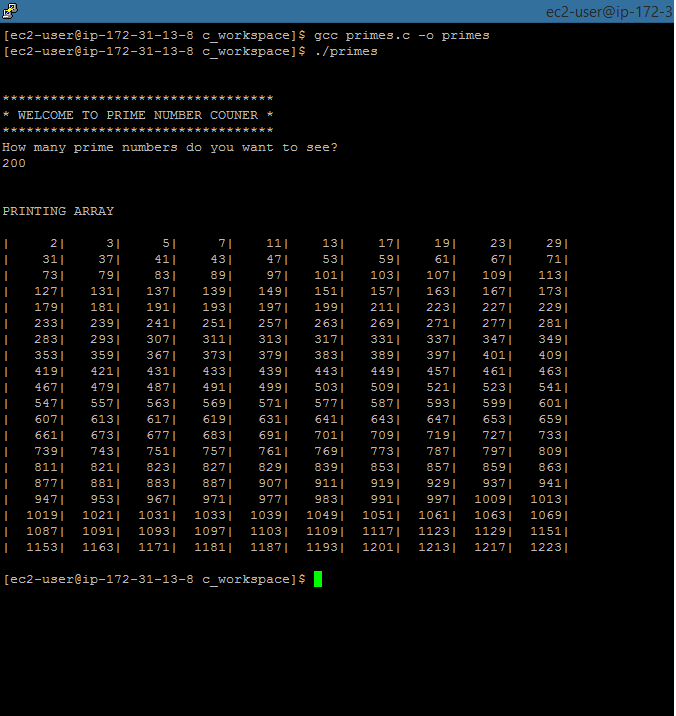
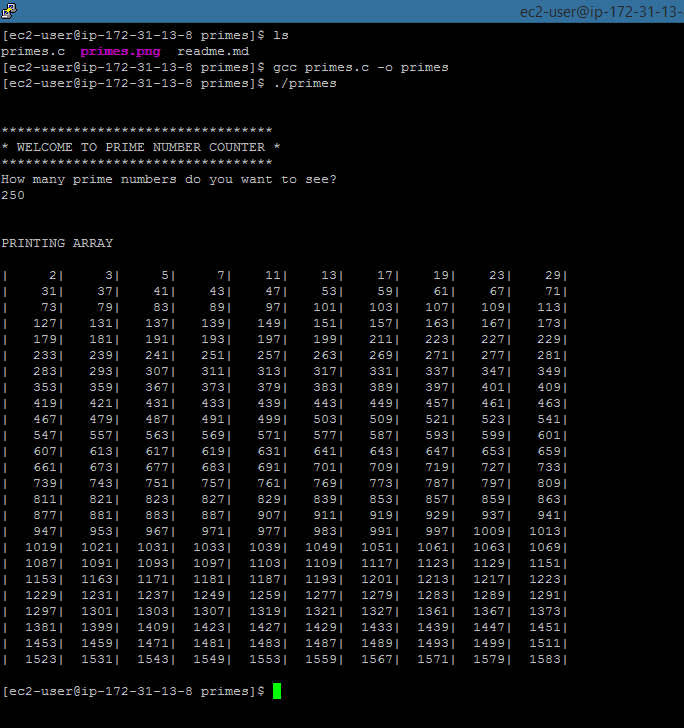
Corrected spelling error

diff --git a/primes.c b/primes.c
@@ -97,7 +97,7 @@ void printArray(int* a, int length) {
 int getUserInput() {
   int input;
   printf("\n\n**********************************\n");
-  printf("* WELCOME TO PRIME NUMBER COUNER *\n");
+  printf("* WELCOME TO PRIME NUMBER COUNTER *\n");
  printf("**********************************\n");
   printf("How many prime numbers do you want to see?\n");
   scanf("%d", &input);

diff --git a/readme.md b/readme.md
@@ -1,5 +1,5 @@
 -----------------------------------------------------------------------------------------------
-##Prime Number Generator in C
+## Prime Number Generator in C
 #### Justin J
 -----------------------------------------------------------------------------------------------
 
